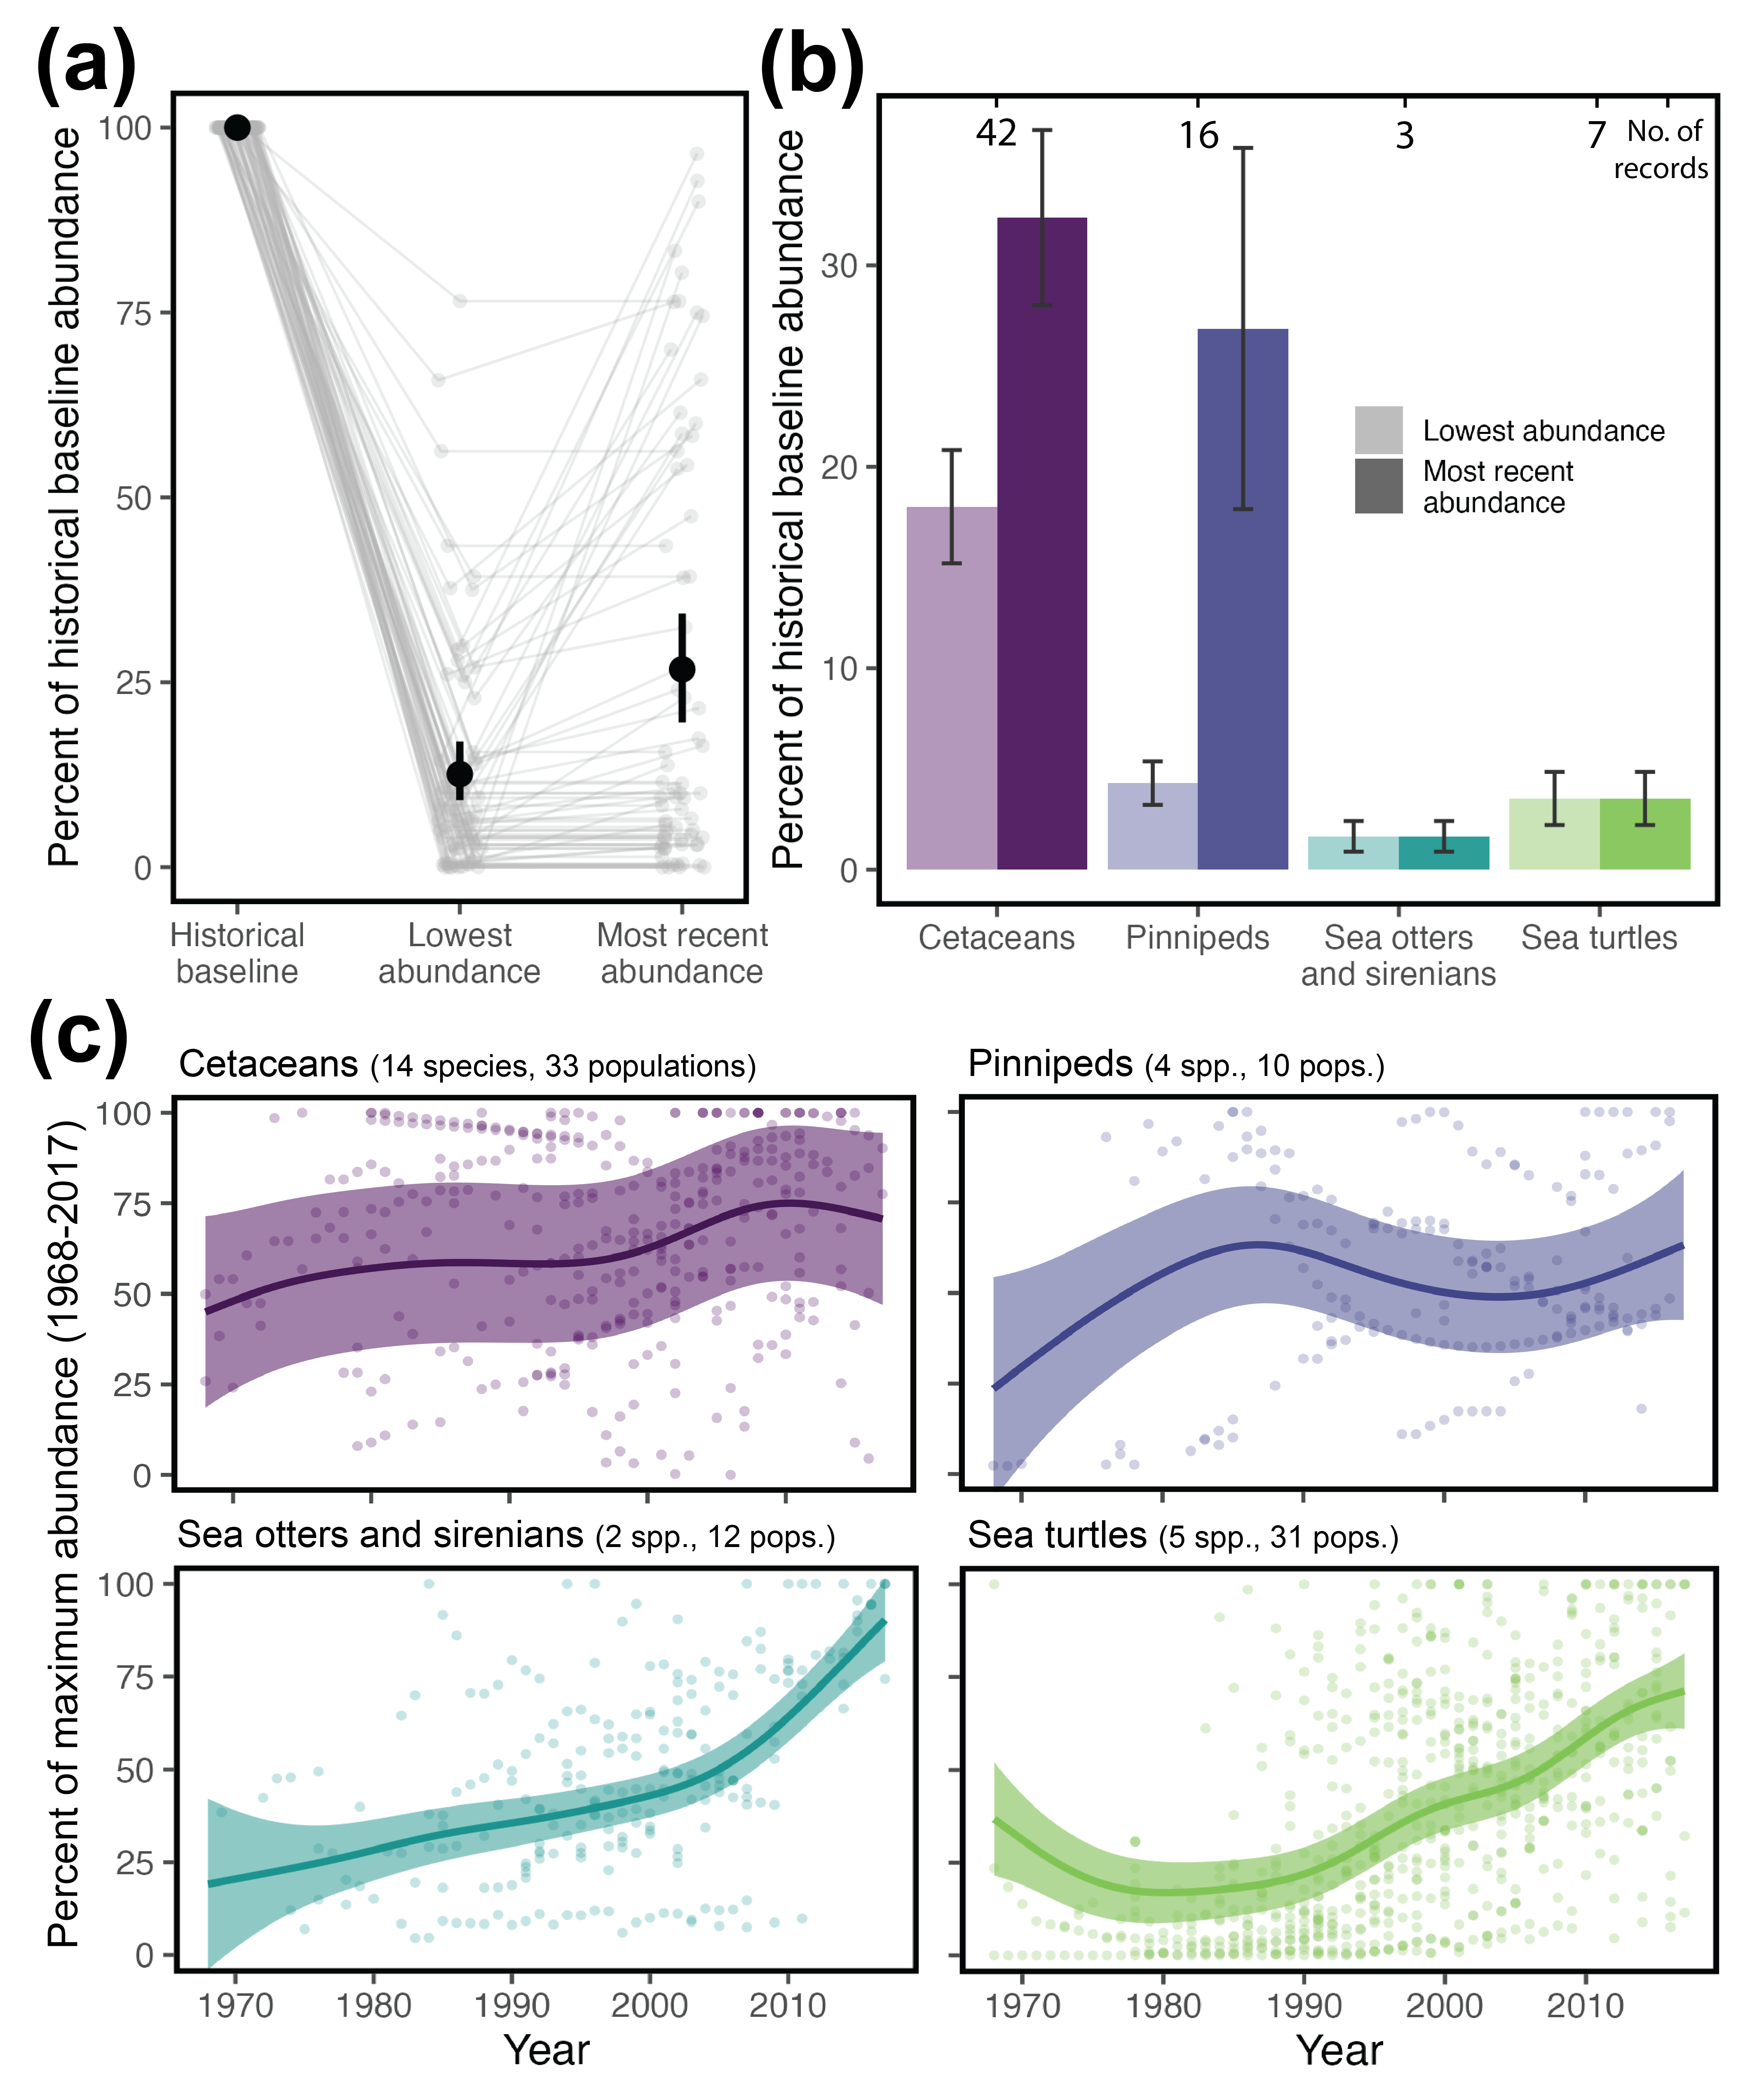
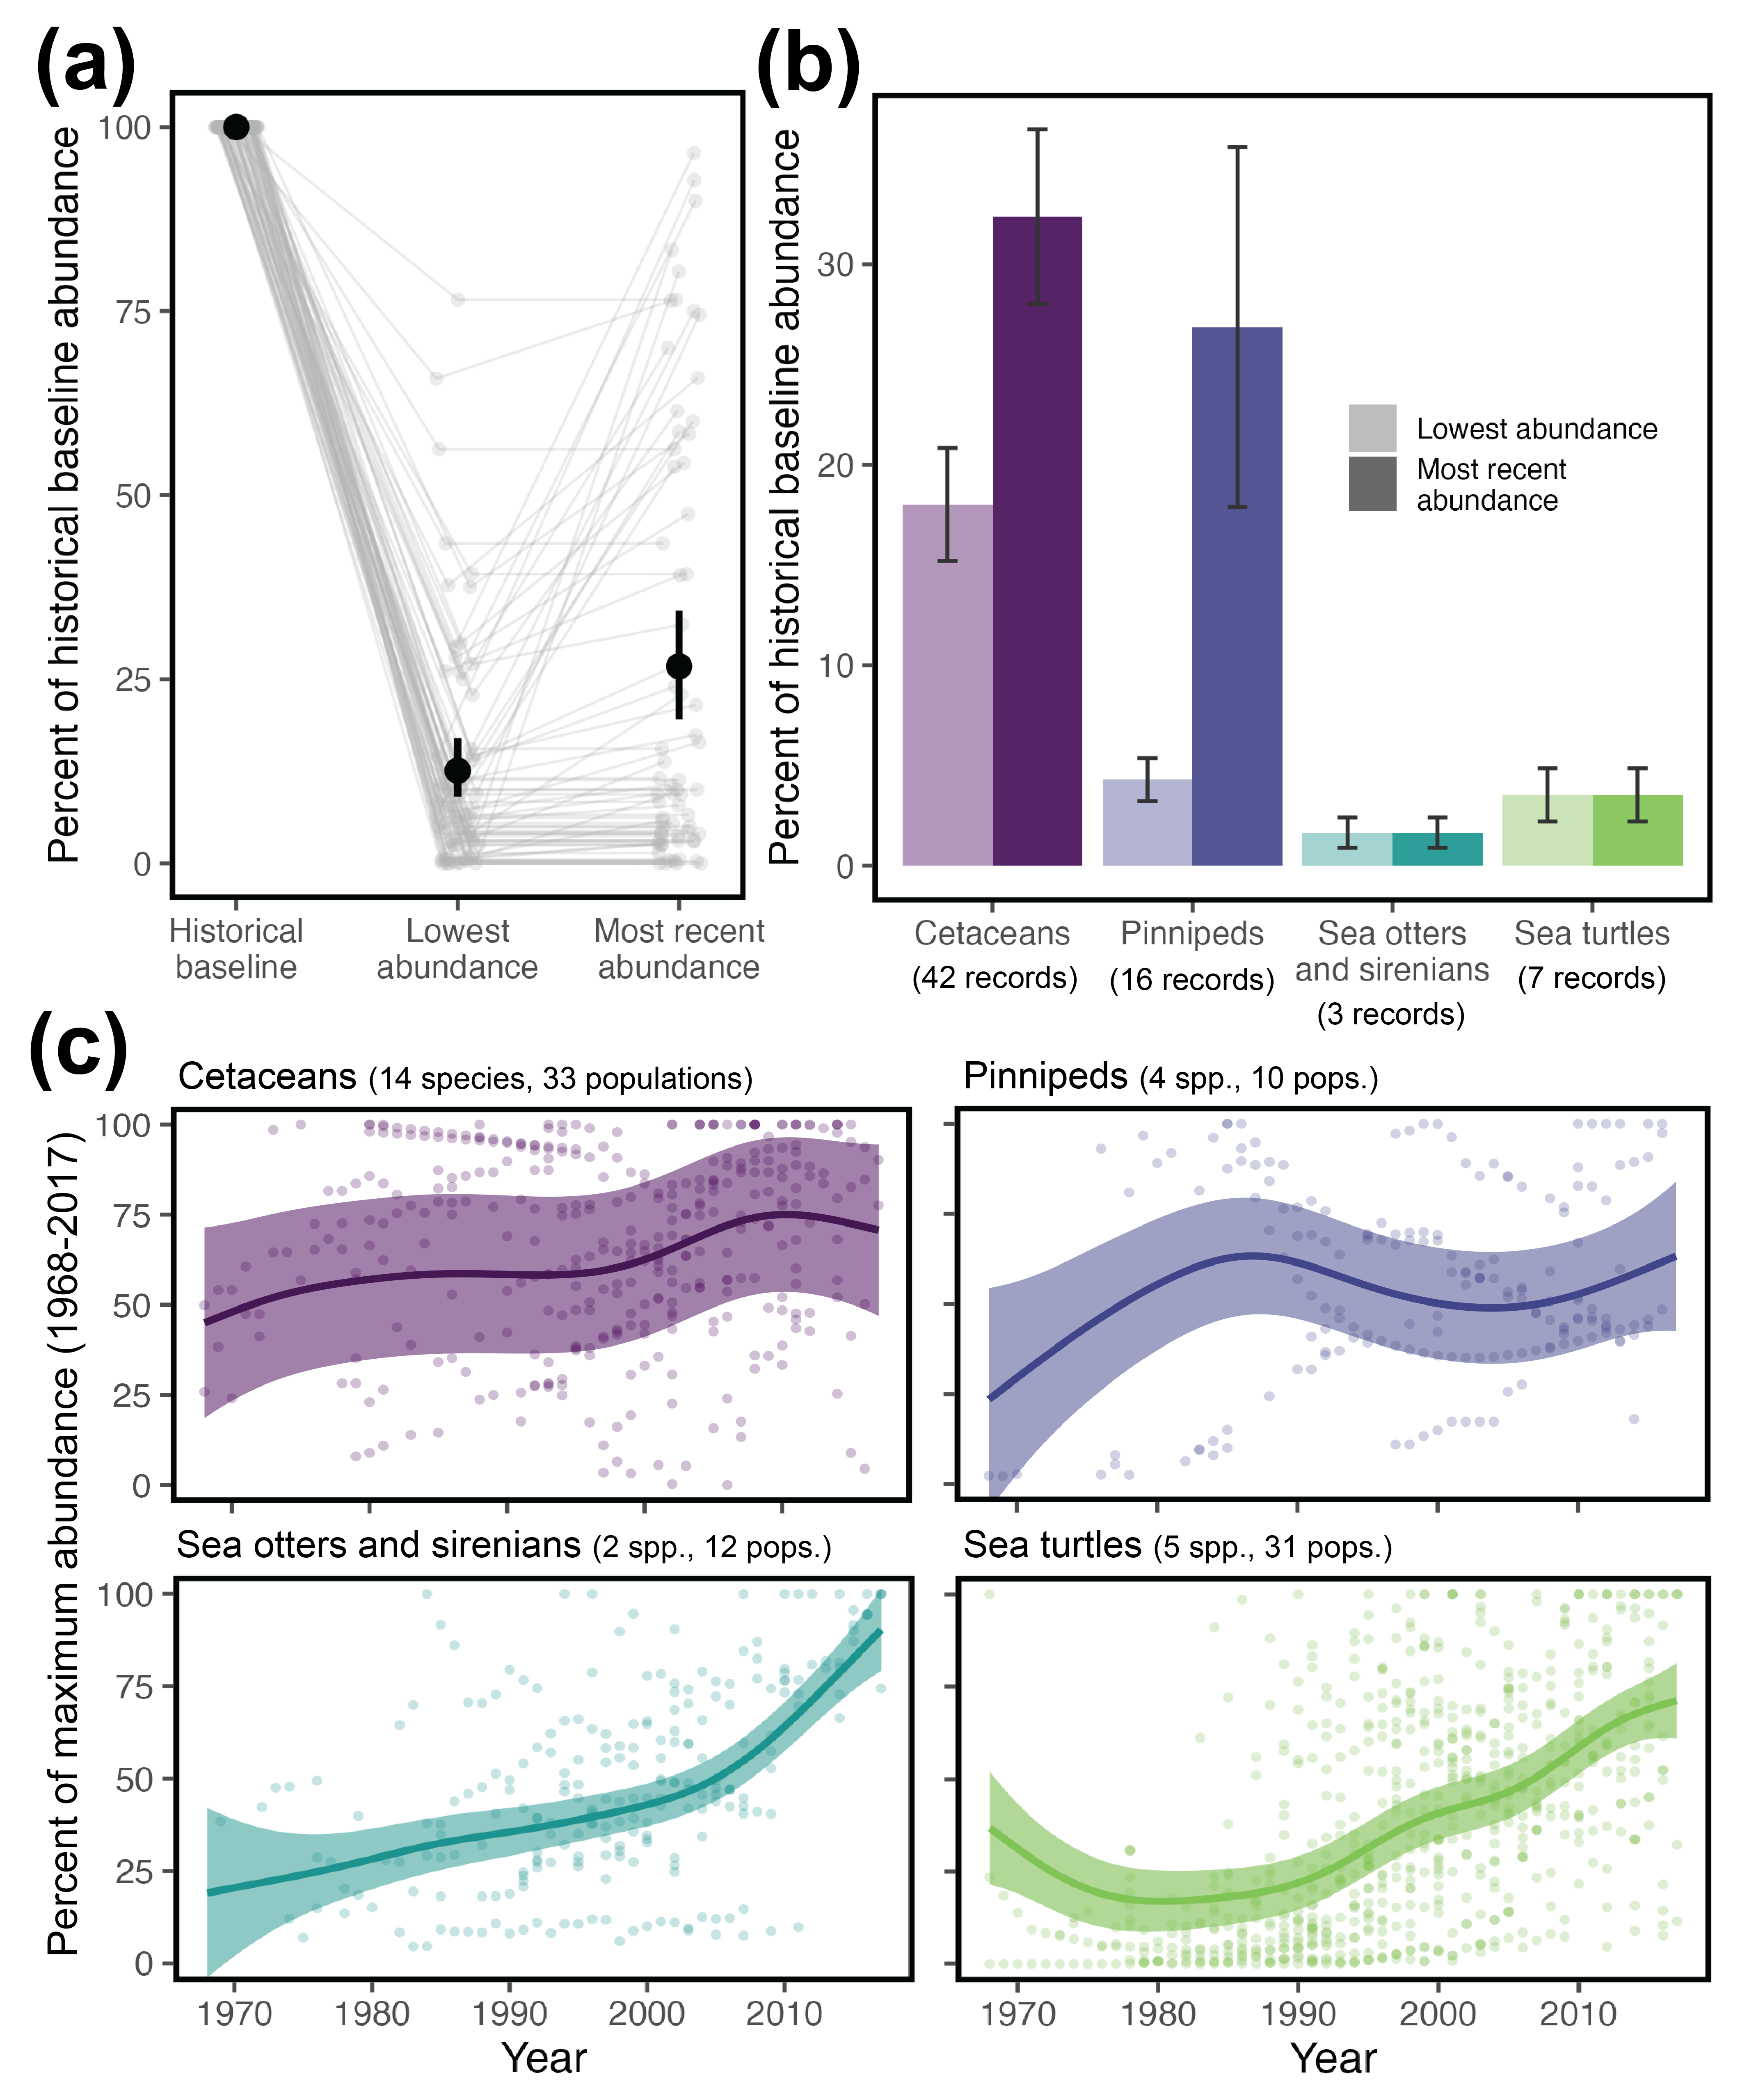
Adjust figures and README for publication

diff --git a/README.md b/README.md
@@ -1,8 +1,6 @@
 # Historical and potential future importance of marine megafauna subsidies to terrestrial ecosystems
 
-**FD Gerraty**, CA Braman, JE Dugan, K Elder, KA Emery, BS Halpern, WN Heady, EHT Hiroyasu, GB Lewin, ES Nielsen, RY Oliver, M Reynolds, A Wegmann, RC Williams, R Wynn-Grant, HS Young, ZL Zilz
-
-[![DOI](https://zenodo.org/badge/DOI/10.5281/zenodo.15635282.svg)](https://doi.org/10.5281/zenodo.15635282)
+**FD Gerraty**, CA Braman, JE Dugan, K Elder, KA Emery, BS Halpern, WN Heady, EHT Hiroyasu, GB Lewin, ES Nielsen, RY Oliver, M Reynolds, A Wegmann, RC Williams, R Wynn-Grant, HS Young, ZL Zilz (2026). Historical and potential future importance of marine megafauna subsidies to terrestrial ecosystems. *Frontiers in Ecology and the Environment.*
 
 Marine megafauna connect land and sea by serving as large, calorically-rich food sources for terrestrial consumers and by transferring marine-derived nutrients onto land as eggs, placenta, excreta, and carcasses. In this project, we review the role of marine megafauna - particularly marine mammals and sea turtles - as connectors of marine and terrestrial ecosystems along global coastlines. We compile published literature to describe the diversity of terrestrial consumers that exploit marine megafauna as a food source, as well as descriptions of documented ecological consequences resulting from megafauna-mediated nutrient subsidies from marine to terrestrial ecosystems. Here, we provide an overview of the datasets and scripts associated with this repository.
 